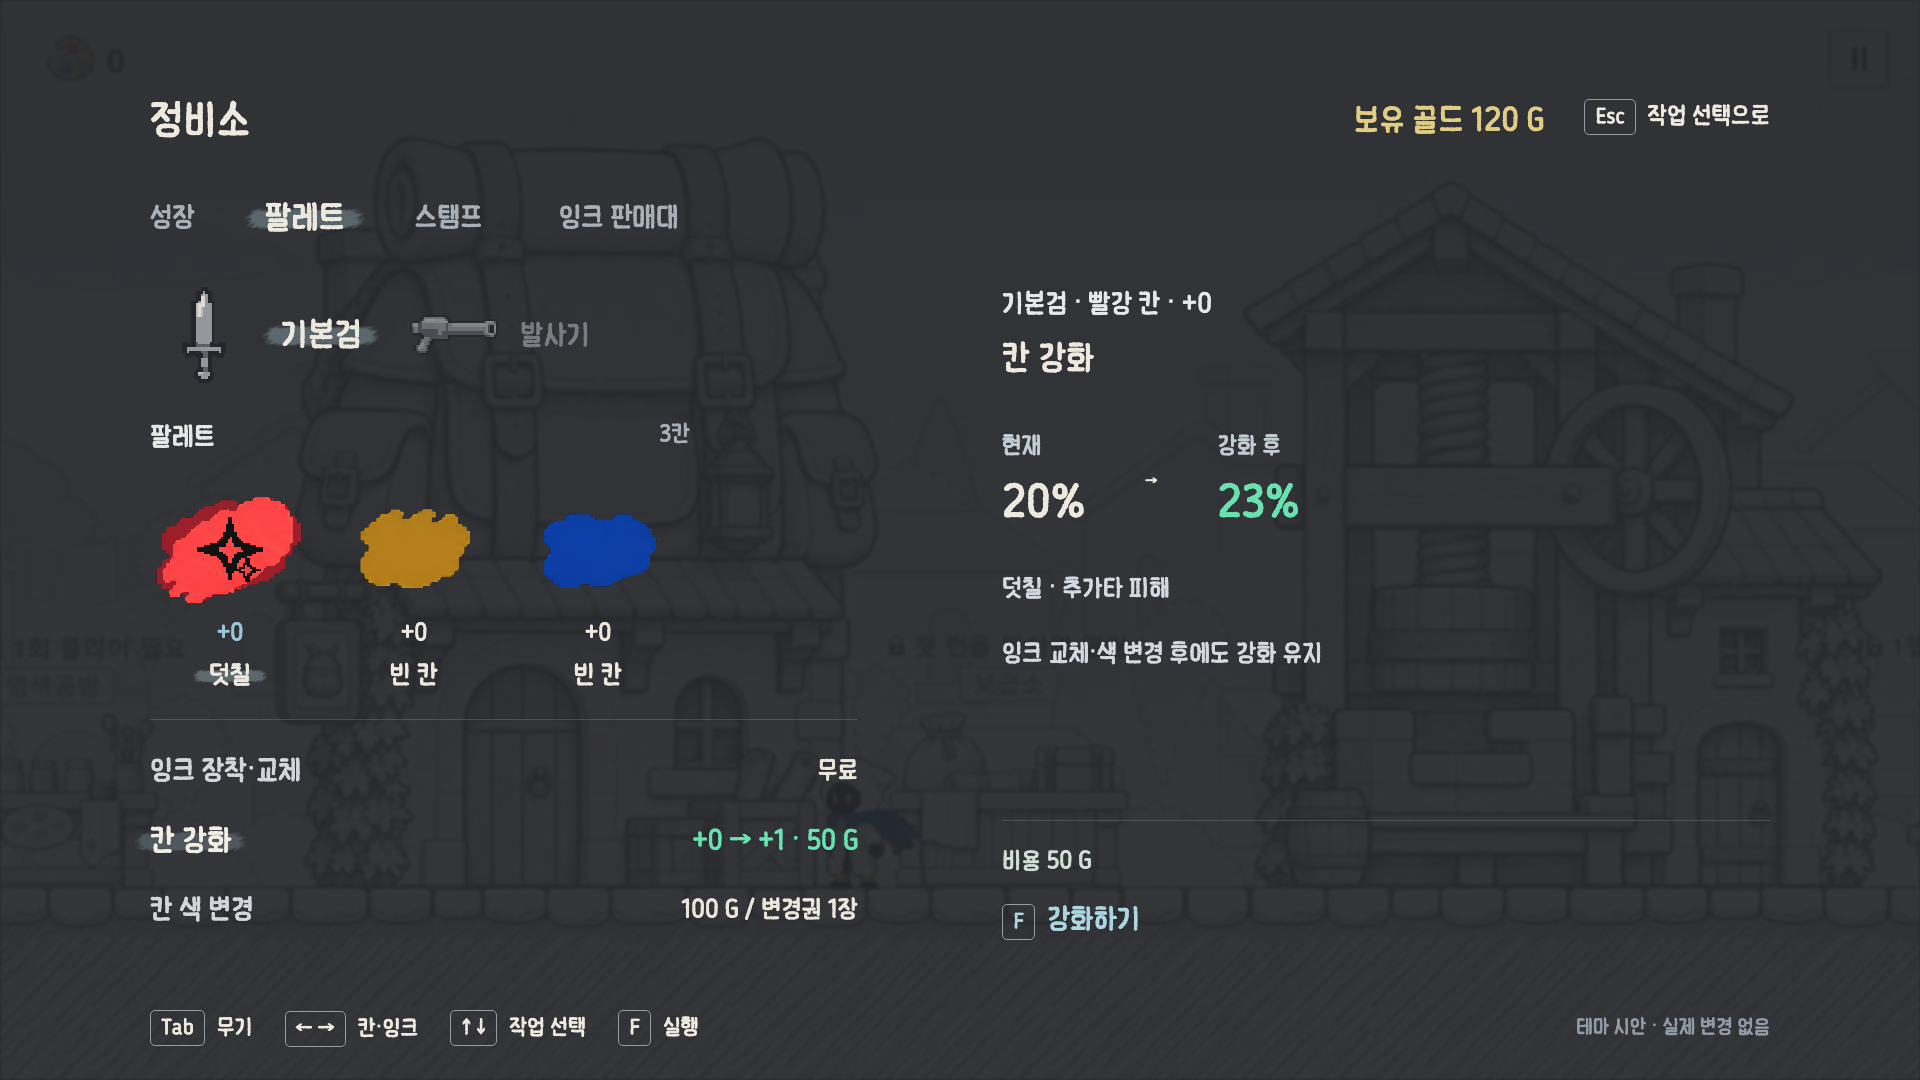
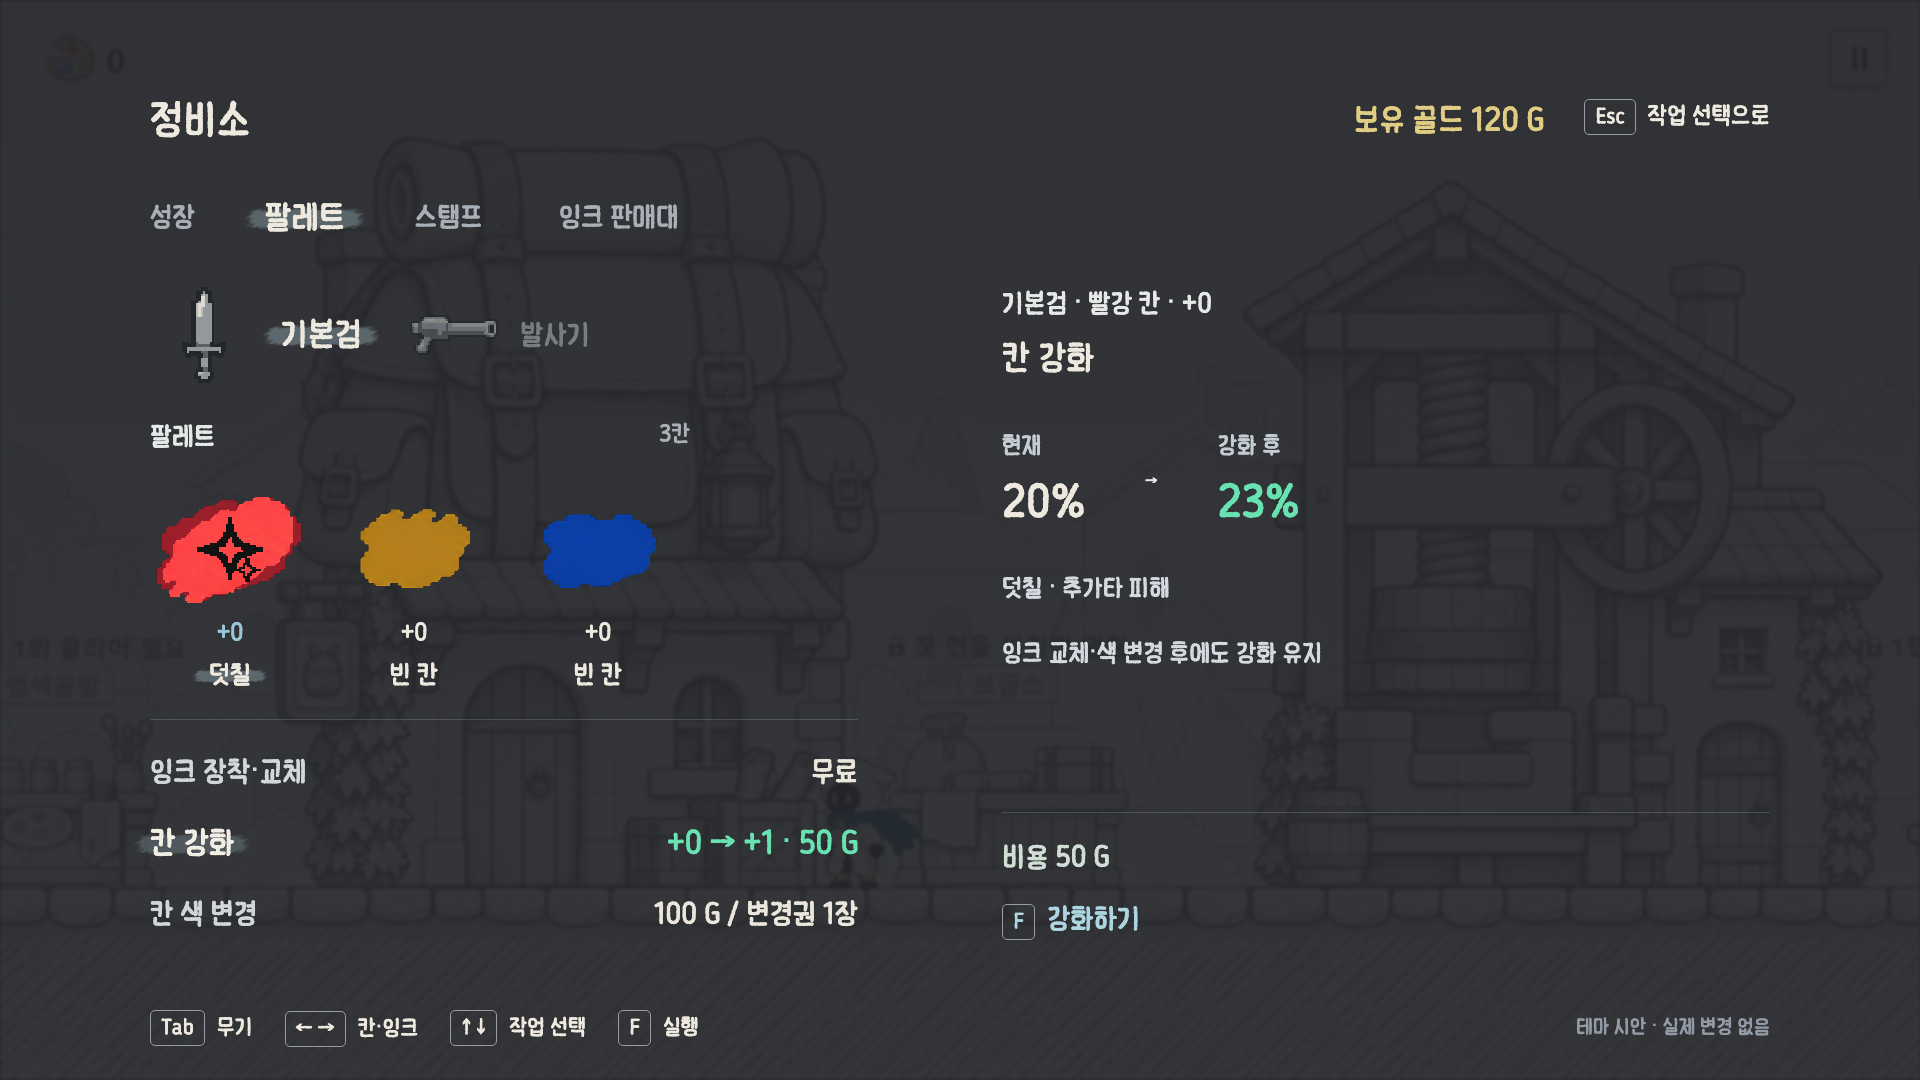
Unify task scaling and add equipment replacement action feedback

diff --git a/ui/work/theme/ink-pixel-v1/screen-set-v6/index.html b/ui/work/theme/ink-pixel-v1/screen-set-v6/index.html
@@ -64,13 +64,17 @@ header button.active{transform:scale(1.2)}
 .grid .item.selected:after{display:none}
 .stamps{gap:76px}.stamps strong{font-family:inherit;font-size:30px;font-weight:normal}.stampTitle{color:#eee9df}.stampWeaponPreview{display:block;width:180px;height:120px;object-fit:contain;image-rendering:pixelated;margin:12px 0 24px}
 .stamps>div{color:#a8afb6}.weaponInfo .infoHeading{font-size:27px;color:#aacbd8;display:flex;align-items:center;gap:24px}.infoHeading span{font-size:22px;color:#a8afb6}.weaponInfo h2{font-size:37px;font-weight:normal;margin:18px 0}.weaponInfo p{font-size:27px;line-height:1.65}.weaponInfo .rule{margin:38px 0}.attackNote{font-size:24px;color:#bcc3ca;margin-top:22px}
+.equipAction{margin-top:26px;padding-top:22px;border-top:1px solid #a8afb640}.equipAction button{font-size:31px;color:#b5d8e4}.equipAction button:disabled{color:#929aa3}.equipStatus{font-size:24px;color:#b9d6c4;margin:16px 0 0}.candidateDetail p{max-height:120px}
 </style><div class="screen"><div class="world"></div><main><header><button id="bag">가방</button><button id="equip">장비</button><aside>일시정지　 |　 <kbd>I / Esc</kbd>닫기</aside></header><div id="content"></div></main><footer class="footer" id="footer"></footer></div><script>
 const data=[{"id": "ink3_red_01", "name": "덧칠", "color": "red", "description": "원공격 피해의 20%인 추가타 1회를 가한다."}, {"id": "ink3_red_02", "name": "집중 공격", "color": "red", "description": "같은 몬스터를 연달아 때릴 때마다 그 몬스터에게 주는 피해가 4%씩 오른다. 최대 5중첩(20%)이다."}, {"id": "ink3_red_04", "name": "터지는 잉크", "color": "red", "description": "표식을 터트린 몬스터에게 기준 피해 60%인 추가타 1회를 가한다."}, {"id": "ink3_yellow_01", "name": "전기 발자국", "color": "yellow", "description": "1.5unit 이동할 때마다 발밑에 작은 전기장(반경 0.75)을 2초간 남긴다. 전기장 안의 몬스터는 0.5초마다 기준 피해 15%를 받는다."}, {"id": "ink3_yellow_02", "name": "뛰어난 발걸음", "color": "yellow", "description": "공격 속도와 이동 속도가 각각 10% 증가한다."}, {"id": "ink3_green_04", "name": "전투 식량", "color": "green", "description": "몬스터를 5마리 처치할 때마다 체력 6을 회복한다."}, {"id": "ink3_green_01", "name": "든든한 배리어", "color": "green", "description": "보호막이 남아 있는 동안 공격 피해가 20% 증가한다."}, {"id": "ink3_blue_01", "name": "범위 증폭", "color": "blue", "description": "공격 범위(반경)가 20% 증가한다."}, {"id": "ink3_blue_02", "name": "교대 타격", "color": "blue", "description": "이 잉크를 낀 무기에서 다른 무기로 바꾸면, 바꿔 든 무기 특수 스킬의 남은 쿨타임이 1초 줄어든다. 이 잉크를 낀 무기의 쿨타임은 줄지 않는다."}, {"id": "ink3_purple_01", "name": "먹물 늪", "color": "purple", "description": "몬스터를 0.8초 속박하고, 속박을 걸 때 기준 피해 30%를 준다."}, {"id": "ink3_purple_05", "name": "사약", "color": "purple", "description": "몬스터를 3초간 중독시켜 0.5초마다 기준 피해 8%를 준다. 다시 맞히면 지속시간만 갱신한다."}, {"id": "ink3_purple_07", "name": "쪽빛 족쇄", "color": "purple", "description": "남색 표식이 터질 때 몬스터를 0.6초 속박하고, 속박을 걸 때 기준 피해 20%를 준다."}];let view=new URLSearchParams(location.search).get('view')||'bag',selected=new URLSearchParams(location.search).has('view')&&new URLSearchParams(location.search).get('view')==='equipment'?1:0,slot=Number(new URLSearchParams(location.search).get('slot')||0),page=0,weapon=Number(new URLSearchParams(location.search).get('weapon')||0),category=Number(new URLSearchParams(location.search).get('category')||0),stamp=new URLSearchParams(location.search).has('slot')?'':'weapon';const hasStamps=new URLSearchParams(location.search).get('stamps')!=='empty';const colors={red:'#e5a6a7',yellow:'#e0cc83',green:'#a9d797',blue:'#97c7e9',purple:'#c7a6df'};let equipped=['ink3_red_01','ink3_yellow_02','ink3_green_04',null,'ink3_blue_01'];const slotColors=['red','yellow','green','blue','neutral'];
-function item(d,idx,active){return `<button class="item ${active?'selected':''}" aria-label="${d.name}" onclick="selected=${idx};render()"><img src="assets/${d.id}-jar.png" alt="${d.name}"></button>`}
+let equipNotice='';
+function item(d,idx,active){return `<button class="item ${active?'selected':''}" aria-label="${d.name}" onclick="selected=${idx};equipNotice='';render()"><img src="assets/${d.id}-jar.png" alt="${d.name}"></button>`}
 function render(){bag.className=view==='bag'?'active swash':'';equip.className=view==='equipment'?'active swash':'';if(new URLSearchParams(location.search).get('stress')==='long'&&view==='bag')selected=8;let d=data[selected];document.documentElement.style.setProperty('--ink',colors[d.color]);
 if(view==='bag'){content.innerHTML=`<div class="columns"><section><nav class="tabs">${['전체 12','색·능력치 12/15','형태 0/15','특수 0/15'].map((x,i)=>`<button class="${i===category?'active swash':''}" onclick="category=${i};render()">${x}</button>`).join('')}</nav>${category<2?`<div class="grid">${data.map((x,i)=>item(x,i,i===selected)).join('')}</div><div class="bagcount">보유 12개　·　카테고리별 보관</div>`:'<div class="empty">보유한 도장이 없습니다</div>'}</section><section class="detail">${category<2?`<div class="label">선택한 잉크</div><div class="detailHero"><img src="assets/${d.id}-jar.png"><div><h1 class="title">${d.name}</h1><p class="muted small">색상 잉크 · 1등급</p></div></div><div class="rule"></div><p>${d.description}</p><p class="muted small">${d.id==='ink3_red_01'?'재발동 간격 0.25초':''}</p><div class="hint">장착과 교체는 장비 탭에서</div>`:''}</section></div>`;footer.innerHTML='<span><kbd>X</kbd>버리기</span><span><kbd>X</kbd>3초 눌러 파괴</span><span class="muted">짧게 누르기 / 길게 누르기</span>';
-}else{let current=data.find(x=>x.id===equipped[slot]);let sc=slotColors[slot];let candidates=data.map((x,i)=>({...x,index:i})).filter(x=>sc==='neutral'||x.color===sc);if(!candidates.some(x=>x.index===selected)){selected=candidates[0].index;d=data[selected]}document.documentElement.style.setProperty('--ink',colors[d.color]);let visible=candidates.slice(page*4,page*4+4);if(!visible.length){page=0;visible=candidates.slice(0,4)}content.innerHTML=`<div class="columns"><section><div class="weapons"><button onclick="weapon=0;stamp='weapon';render()" class="${weapon===0?'swash':''}"><img src="assets/weapon-${hasStamps?'rapier':'base_sword'}.png"><span class="weaponName">${hasStamps?'레이피어':'기본검'}</span></button><button onclick="weapon=1;stamp='weapon';render()" class="${weapon===1?'swash':''}"><img src="assets/weapon-launcher.png"><span class="weaponName">발사기</span></button></div><div class="stamps"><div><span class="stampName">무기 스탬프</span><strong>${hasStamps&&weapon===0?'레이피어':'—'}</strong></div><div><span class="stampName">스킬 스탬프</span><strong>${hasStamps&&weapon===0?'범위':'—'}</strong></div></div><div class="rule"></div><div class="label">팔레트　<span class="muted small">5칸</span></div><div class="slots">${slotColors.map((c,i)=>{let id=equipped[i], ink=data.find(x=>x.id===id);return `<button class="slot ${slot===i&&!stamp?'focus':''}" onclick="slot=${i};page=0;stamp='';render()"><div class="layers"><img src="assets/${id?(c==='neutral'?'neutral-filled-':'filled-')+ink.color:'empty-'+c}.png">${id?`<img src="assets/${id}.png">`:''}</div><span>+0</span><strong class="slotname">${data.find(x=>x.id===id)?.name||'빈 칸'}</strong></button>`}).join('')}</div><div class="hint">↓ 팔레트 선택 · ← → 칸 이동</div></section><section>${stamp?weaponDetails():`<div class="current"><div class="label">현재 장착　·　${slot+1}번 ${sc==='neutral'?'무색':''} 칸</div><h2>${current?.name||'—'}</h2><p>${current?.description||'장착된 잉크 없음'}</p></div><div class="transition"><img src="assets/transition-down.png" alt="교체 방향"></div><div class="label">교체할 잉크</div><div class="candidateRow"><button class="arrow" aria-label="이전 잉크" onclick="movePage(-1)" ${page===0?'disabled':''}><img src="assets/chevron-left.png" alt="이전"></button>${visible.map(x=>item(x,x.index,x.index===selected)).join('')}<button class="arrow" aria-label="다음 잉크" onclick="movePage(1)" ${(page+1)*4>=candidates.length?'disabled':''}><img src="assets/chevron-right.png" alt="다음"></button><span class="muted small">${page+1} / ${Math.ceil(candidates.length/4)}</span></div><div class="candidateDetail"><h2>${d.name} <span class="muted small">· 1등급</span></h2><p>${d.description}</p></div>`}</section></div>`;footer.innerHTML=(stamp?'':'<span><kbd>F</kbd>장착</span>')+'<span><kbd>Esc</kbd>이전 단계</span><span class="muted">시안 · 실제 아이템은 변경되지 않음</span>'}}
+}else{let current=data.find(x=>x.id===equipped[slot]);let sc=slotColors[slot];let candidates=data.map((x,i)=>({...x,index:i})).filter(x=>sc==='neutral'||x.color===sc);if(!candidates.some(x=>x.index===selected)){selected=candidates[0].index;d=data[selected]}document.documentElement.style.setProperty('--ink',colors[d.color]);let visible=candidates.slice(page*4,page*4+4);if(!visible.length){page=0;visible=candidates.slice(0,4)}content.innerHTML=`<div class="columns"><section><div class="weapons"><button onclick="weapon=0;stamp='weapon';render()" class="${weapon===0?'swash':''}"><img src="assets/weapon-${hasStamps?'rapier':'base_sword'}.png"><span class="weaponName">${hasStamps?'레이피어':'기본검'}</span></button><button onclick="weapon=1;stamp='weapon';render()" class="${weapon===1?'swash':''}"><img src="assets/weapon-launcher.png"><span class="weaponName">발사기</span></button></div><div class="stamps"><div><span class="stampName">무기 스탬프</span><strong>${hasStamps&&weapon===0?'레이피어':'—'}</strong></div><div><span class="stampName">스킬 스탬프</span><strong>${hasStamps&&weapon===0?'범위':'—'}</strong></div></div><div class="rule"></div><div class="label">팔레트　<span class="muted small">5칸</span></div><div class="slots">${slotColors.map((c,i)=>{let id=equipped[i], ink=data.find(x=>x.id===id);return `<button class="slot ${slot===i&&!stamp?'focus':''}" onclick="slot=${i};page=0;stamp='';equipNotice='';render()"><div class="layers"><img src="assets/${id?(c==='neutral'?'neutral-filled-':'filled-')+ink.color:'empty-'+c}.png">${id?`<img src="assets/${id}.png">`:''}</div><span>+0</span><strong class="slotname">${data.find(x=>x.id===id)?.name||'빈 칸'}</strong></button>`}).join('')}</div><div class="hint">↓ 팔레트 선택 · ← → 칸 이동</div></section><section>${stamp?weaponDetails():`<div class="current"><div class="label">현재 장착　·　${slot+1}번 ${sc==='neutral'?'무색':''} 칸</div><h2>${current?.name||'—'}</h2><p>${current?.description||'장착된 잉크 없음'}</p></div><div class="transition"><img src="assets/transition-down.png" alt="교체 방향"></div><div class="label">교체할 잉크</div><div class="candidateRow"><button class="arrow" aria-label="이전 잉크" onclick="movePage(-1)" ${page===0?'disabled':''}><img src="assets/chevron-left.png" alt="이전"></button>${visible.map(x=>item(x,x.index,x.index===selected)).join('')}<button class="arrow" aria-label="다음 잉크" onclick="movePage(1)" ${(page+1)*4>=candidates.length?'disabled':''}><img src="assets/chevron-right.png" alt="다음"></button><span class="muted small">${page+1} / ${Math.ceil(candidates.length/4)}</span></div><div class="candidateDetail"><h2>${d.name} <span class="muted small">· 1등급</span></h2><p>${d.description}</p></div><div class="equipAction"><button onclick="applyInk()" ${current?.id===d.id?'disabled':''}><kbd>F</kbd>${current?.id===d.id?'장착 중':current?'교체 · 무료':'장착 · 무료'}</button><p class="equipStatus" role="status">${equipNotice|| (current?'기존 잉크는 가방으로 반환':'선택한 칸에 장착')}</p></div>`}</section></div>`;footer.innerHTML=(stamp?'':'<span><kbd>F</kbd>장착</span>')+'<span><kbd>Esc</kbd>이전 단계</span><span class="muted">시안 · 실제 아이템은 변경되지 않음</span>'}}
 
+function applyInk(){if(view!=='equipment'||stamp)return;const d=data[selected];if(equipped[slot]===d.id)return;const old=data.find(x=>x.id===equipped[slot]);equipped[slot]=d.id;equipNotice=(old?'교체 완료':'장착 완료')+' · '+d.name+(old?' / '+old.name+' 가방 반환':'');render()}
+document.addEventListener('keydown',e=>{if(!e.repeat&&e.key.toLowerCase()==='f'&&view==='equipment'&&!stamp){e.preventDefault();applyInk()}});
 function weaponDetails(){
 const ranged=weapon===1, rapier=!ranged&&hasStamps;
 const name=ranged?'발사기':rapier?'레이피어':'기본검';
@@ -81,5 +85,5 @@ return `<div class="weaponInfo"><section><div class="infoHeading">무기 <span>$
 }
 
 document.addEventListener('keydown',e=>{if(view!=='equipment'||e.repeat)return;if(!['ArrowDown','ArrowUp','ArrowLeft','ArrowRight'].includes(e.key))return;e.preventDefault();if(e.key==='ArrowDown'){stamp='';page=0}else if(e.key==='ArrowUp'){stamp='weapon'}else if(stamp){weapon=1-weapon}else{slot=(slot+(e.key==='ArrowRight'?1:4))%5;page=0}render()});
-function movePage(delta){page+=delta;let c=slotColors[slot];let a=data.map((x,i)=>({...x,index:i})).filter(x=>c==='neutral'||x.color===c);selected=a[page*4].index;render()}bag.onclick=()=>{view='bag';render()};equip.onclick=()=>{view='equipment';selected=1;stamp='weapon';render()};function fit(){document.querySelector('.screen').style.transform=`scale(${Math.min(innerWidth/1920,innerHeight/1080)})`}onresize=fit;fit();render();
+function movePage(delta){page+=delta;let c=slotColors[slot];let a=data.map((x,i)=>({...x,index:i})).filter(x=>c==='neutral'||x.color===c);selected=a[page*4].index;render()}bag.onclick=()=>{view='bag';render()};equip.onclick=()=>{view='equipment';selected=1;stamp='weapon';render()};function fit(){document.querySelector('.screen').style.transform=`scale(${Math.min(innerWidth/1920,innerHeight/1080)})`}onresize=fit;fit();render();if(new URLSearchParams(location.search).get('result')==='done')applyInk();
 </script></html>

diff --git a/ui/work/theme/ink-pixel-v1/maintenance-palette-v1/index.html b/ui/work/theme/ink-pixel-v1/maintenance-palette-v1/index.html
@@ -135,6 +135,9 @@ body[data-mode="color"] .payment{gap:48px;padding:8px 18px}
 @media(prefers-reduced-motion:reduce){.slot .layers,nav>a,nav>span,.weapons button,.taskName,.taskMeta,.candidateRow button,.recolorInks button,body[data-mode="color"] .paymentOption{transition:none}}
 header aside>span:first-child{color:#e0cc83;font-size:33px}header aside>span:last-child{color:#eee9df;font-size:25px}
 body[data-mode="color"] .taskDecision button:disabled{color:#e3b59f}
+.services .taskName,.services .taskMeta{font-size:30px;transform:scale(1)}
+.services .selectedTask .taskName,.services .selectedTask .taskMeta{transform:scale(1.1)}
+.decisionNote{font-size:30px}body[data-mode="color"] .paymentTitle{font-size:32px}
 </style><div class="screen"><div class="world"></div><main><header><h1>정비소</h1><aside><span>보유 골드 120 G</span><span><kbd>Esc</kbd><span id="escLabel">닫기</span></span></aside></header><nav><a href="../maintenance-growth-v2/index.html">성장</a><span class="active mark">팔레트</span><a href="../maintenance-stamp-v1/index.html">스탬프</a><a href="../ink-shop-v1/index.html">잉크 판매대</a></nav><div class="cols"><section><div class="weapons" id="weapons"></div><div class="paletteHead"><span class="label">팔레트</span><span class="label" id="slotCount">3칸</span></div><div class="slots" id="slots"></div><div class="services"><button onclick="showService(0)"><span class="serviceTitle">칸 강화</span><span class="serviceValue"><span>+0</span><span class="serviceArrow">→</span><span class="serviceGain">+1</span></span><span class="serviceCost"><span class="costLabel">비용</span><span>50 G</span></span></button><button onclick="showService(1)"><span class="serviceTitle">칸 색 변경</span><span class="serviceValue changeValue">칸 색 변경</span><span class="serviceCost"><span class="costLabel">비용</span><span>변경권 1장</span></span></button></div></section><section id="detail"></section></div></main><footer class="foot"><span><kbd>Tab</kbd>무기</span><span><kbd>← →</kbd>칸·잉크</span><span><kbd>↑ ↓</kbd>작업 선택</span><span><kbd>F</kbd><span id="fLabel">잉크 고르기</span></span><span class="note">테마 시안 · 실제 변경 없음</span></footer></div><script>
 const A='../screen-set-v6/assets/';const inks=[{id:'ink3_red_01',name:'덧칠',color:'red',desc:'원공격 피해의 20%인 추가타 1회를 가한다.'},{id:'ink3_red_02',name:'집중 공격',color:'red',desc:'같은 몬스터를 연달아 때릴 때마다 그 몬스터에게 주는 피해가 4%씩 오른다. 최대 5중첩(20%)이다.'},{id:'ink3_red_04',name:'터지는 잉크',color:'red',desc:'표식을 터트린 몬스터에게 기준 피해 60%인 추가타 1회를 가한다.'},{id:'ink3_yellow_02',name:'뛰어난 발걸음',color:'yellow',desc:'공격 속도와 이동 속도가 각각 10% 증가한다.'},{id:'ink3_blue_01',name:'범위 증폭',color:'blue',desc:'공격 범위(반경)가 20% 증가한다.'}];const colorNames={red:'빨강',yellow:'노랑',blue:'파랑',green:'초록',purple:'보라'};const expanded=new URLSearchParams(location.search).get('slots')==='5';const colors=expanded?['red','yellow','blue','green','purple']:['red','yellow','blue'];const sets=expanded?[[0,null,null,null,null],[null,null,4,null,null]]:[[0,null,null],[null,null,4]];let mode=new URLSearchParams(location.search).get('state')==='ink'?'ink':'slot',slot=mode==='ink'?0:new URLSearchParams(location.search).get('state')==='slot'?1:-1,weapon=0,candidate=1;
 const slotStats=sets.map(row=>row.map(()=>({level:0})));

diff --git a/ui/work/theme/ink-pixel-v1/screen-set-v6/README.md b/ui/work/theme/ink-pixel-v1/screen-set-v6/README.md
@@ -18,3 +18,5 @@
 
 ## 무기 선택 시 통합 설명 (현행)
 스탬프 개별 버튼을 읽기 전용 장착 정보로 변경. 장비 진입/무기 선택 시 오른쪽에 무기 특징·기본 공격 / 스킬 이름·실제 동작·기본 쿨타임을 구분 표시하며 중복 무기 아이콘 제거. 팔레트 클릭 시 기존 잉크 교체 화면. 설명 근거: combat/melee.md 레이피어 장침·기본검 강베기, combat/launcher.md 모아쏘기. 수치는 강화 적용 전 기본값. ?view=equipment&weapon=1 발사기, &stamps=empty 기본검, &slot=0 잉크 교체. 이전 개별 스탬프 미리보기는 역사 기록이며 현행 동작 아님.
+
+잉크 설명 아래 F 장착/교체 버튼 및 완료 표시 추가. HTML 시안의 장착 표시만 변경하며 실제 가방 인스턴스 이동은 미구현. result=done 완료 시안. 동일 장착 잉크 실행 차단.

diff --git a/ui/work/theme/ink-pixel-v1/maintenance-palette-v1/README.md b/ui/work/theme/ink-pixel-v1/maintenance-palette-v1/README.md
@@ -102,3 +102,5 @@ assets/palette-selection-rim-v1.png를 이미지 생성으로 제작. 중앙이 
 
 ## 색 변경 개정 — 사용자 결정
 무작위 색 변경 → 빈 칸. 기존 잉크 가방 반환, 장착 잉크가 있고 가방 가득 차면 결제/실행 차단. 보유 잉크 선택 제거. 강화 유지. 무색 포함 여부/같은 색 재추첨/확률은 미확정이므로 랜덤 결과를 임의 구현하지 않음. 빈 칸 색 변경 가능 여부도 미확정으로 실행 보류. 기존 색 선택+즉시 장착 기록보다 이 결정 우선. ?task=color&case=full 포화.
+
+작업명과 우측 수치 기본30px/선택110%로 통일. 실행부 비용30px, 결제제목32px.
